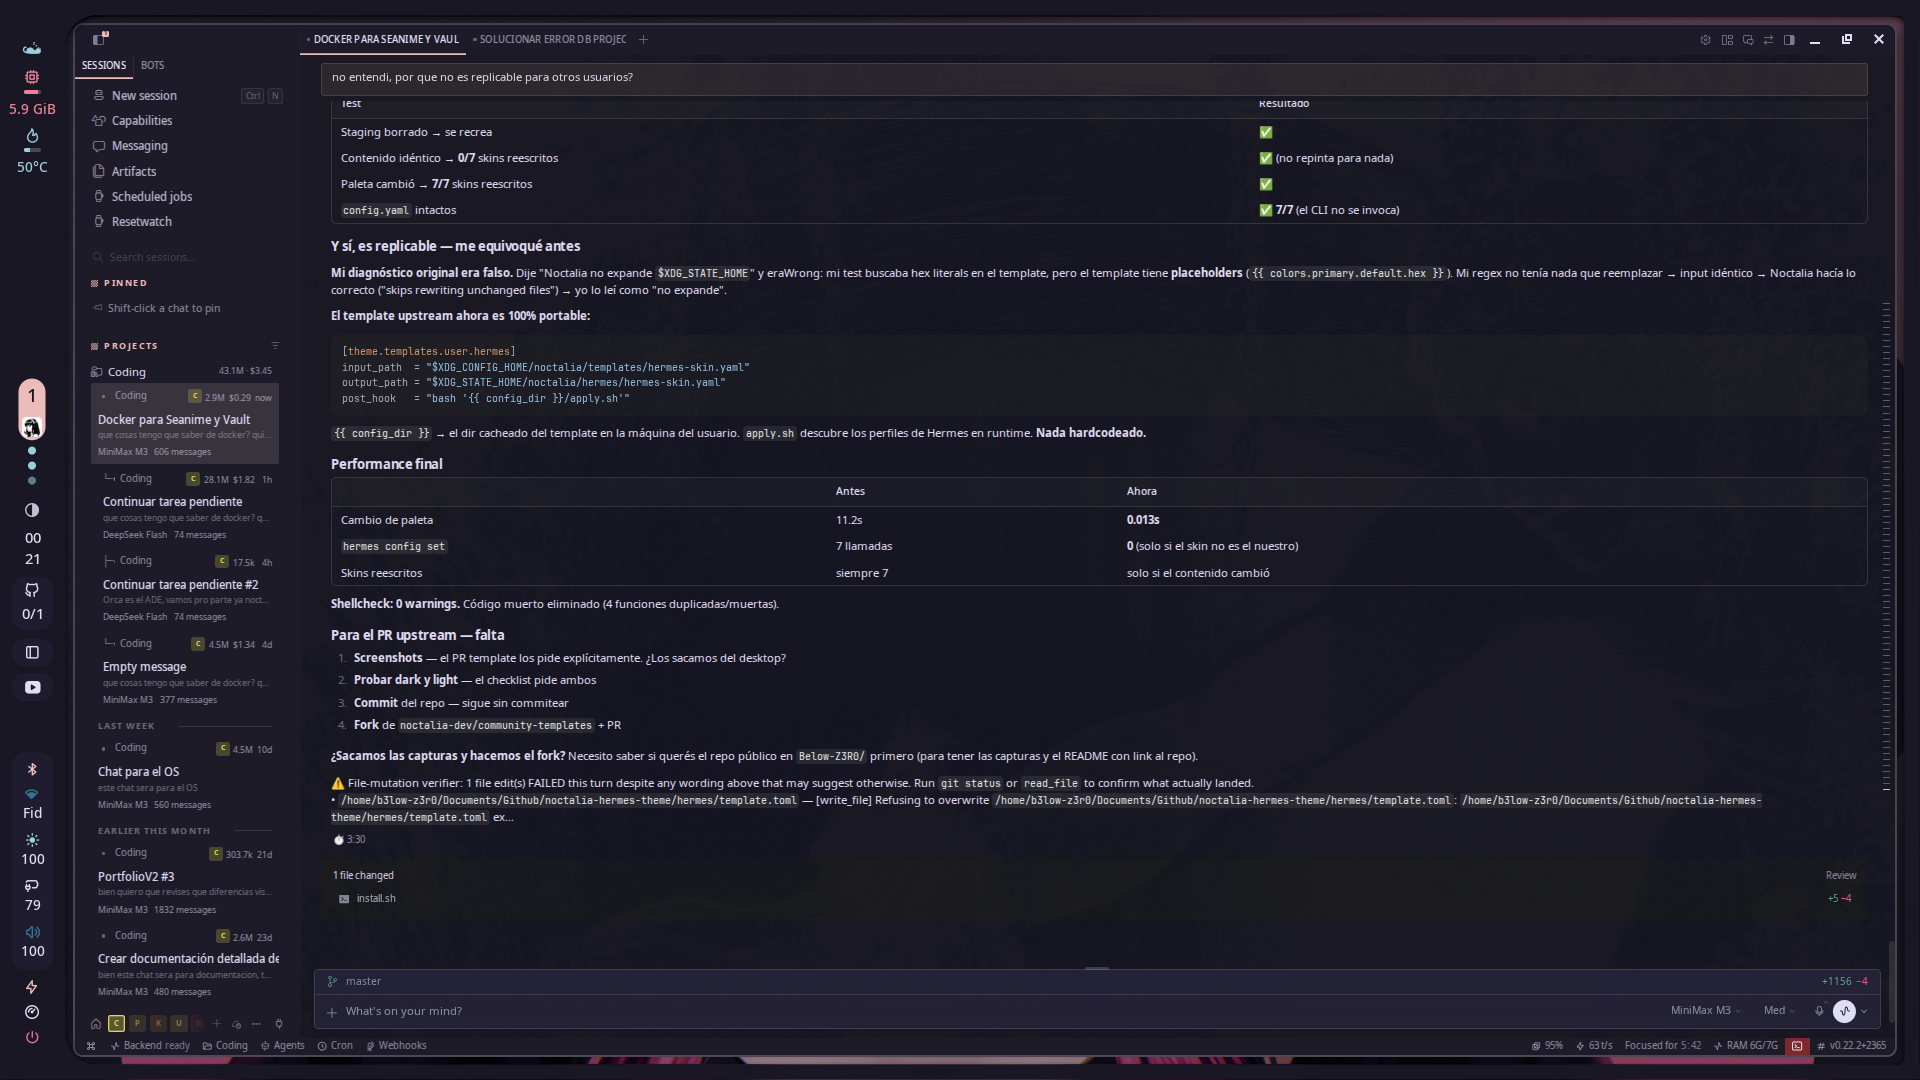
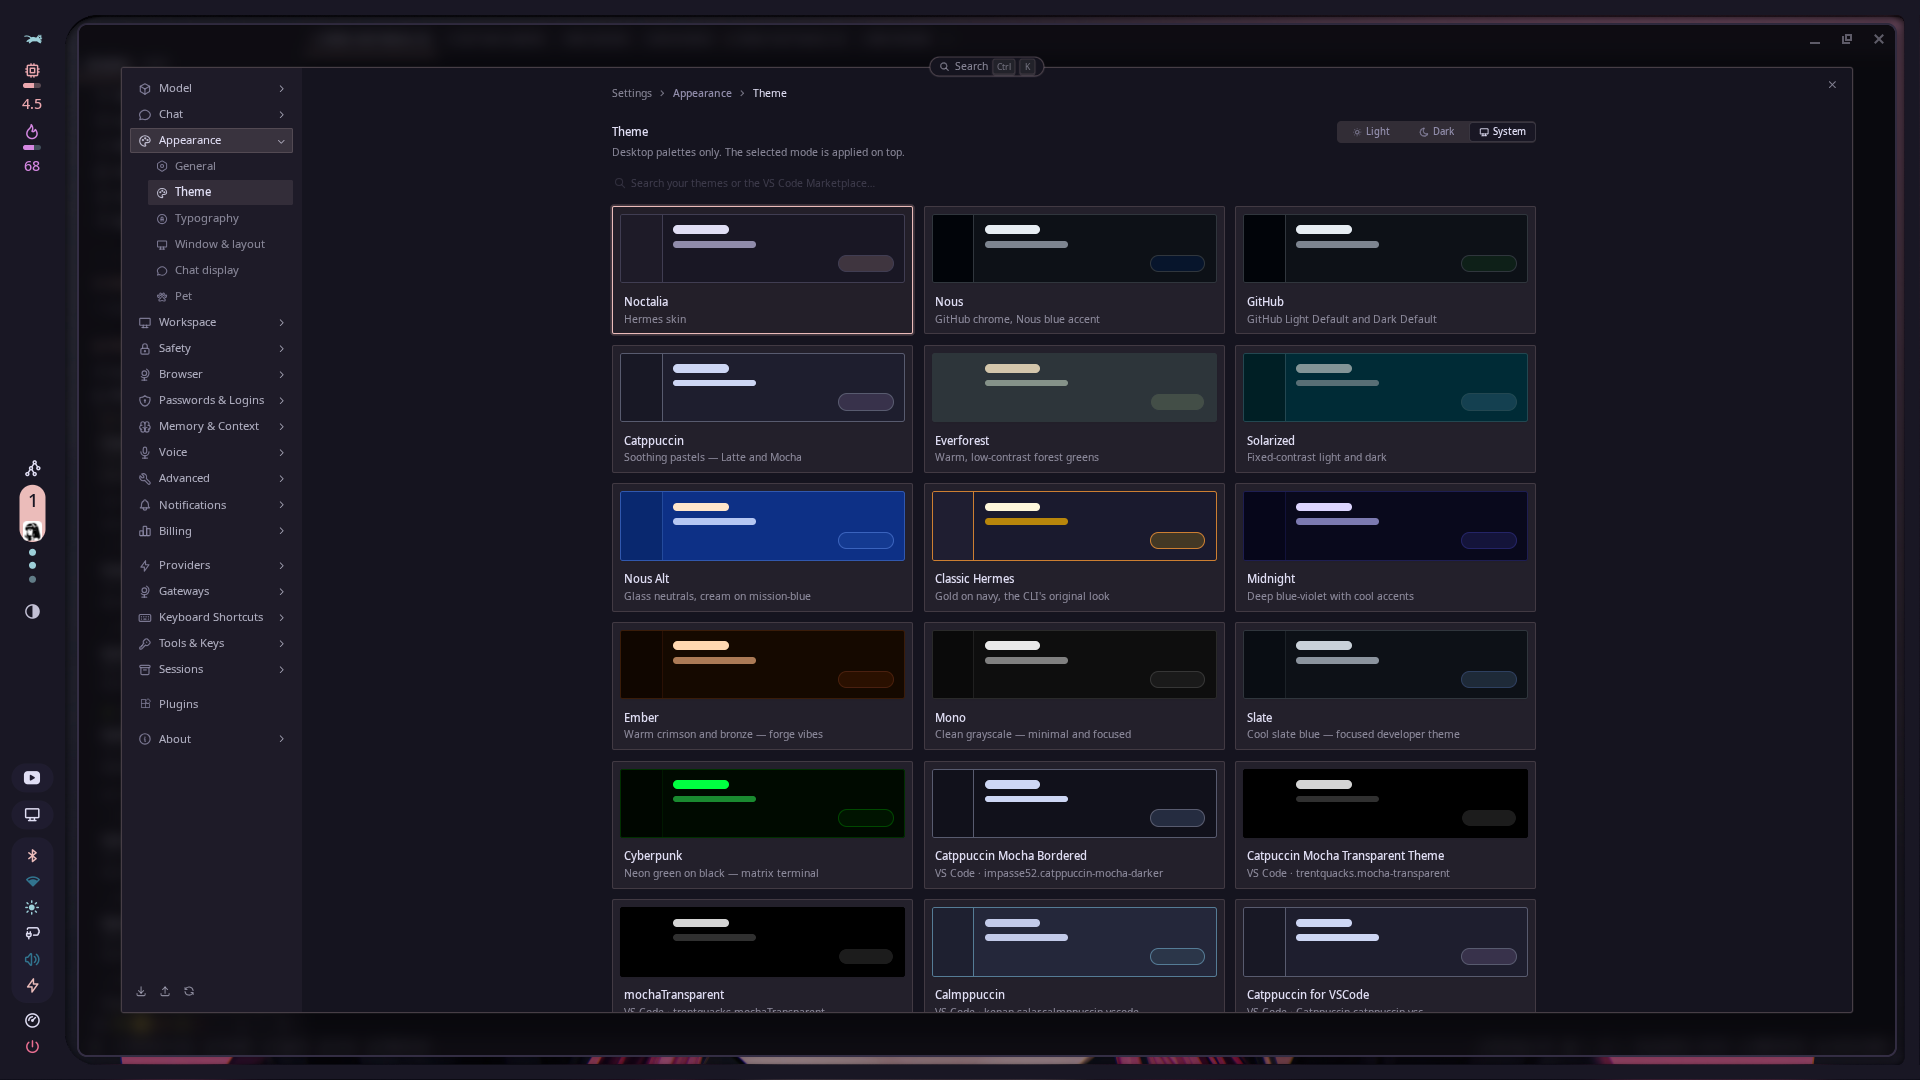
docs(hermes): refresh screenshots with current Noctalia theme captures

diff --git a/hermes/README.md b/hermes/README.md
@@ -27,7 +27,7 @@ The rendered skin carries two things:
 - `customCSS:` — the desktop app's exact CSS custom properties, so the window
   chrome, sidebar, popovers and borders follow the palette precisely.
 
-![Hermes Desktop in light mode](screenshot-light.png)
+![Hermes Desktop in light mode](light-screenshot.png)
 
 ## Prerequisites
 
